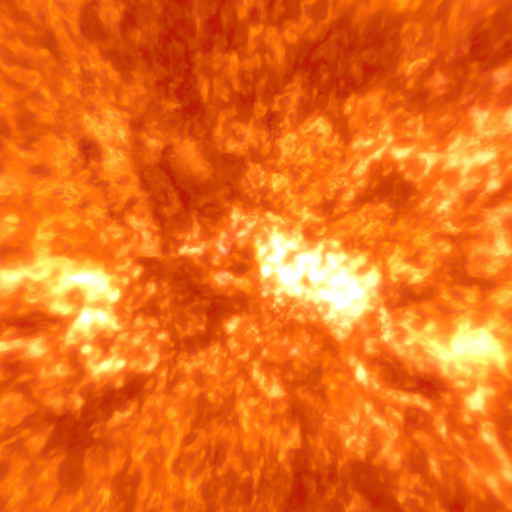
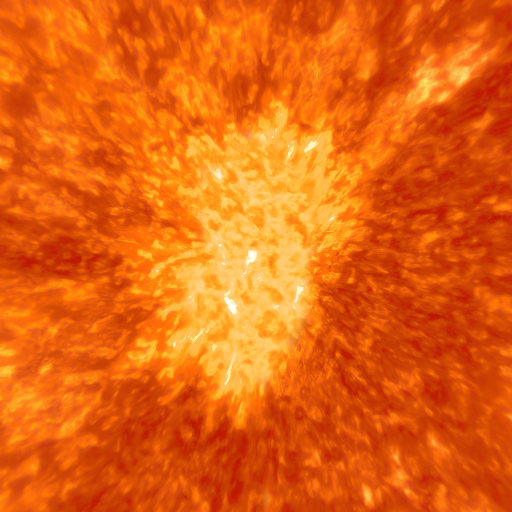
made a sphere version

diff --git a/js/Math.js b/js/Math.js
@@ -61,8 +61,8 @@ function Isometry() {
         let len = Math.sqrt(v.x * v.x + v.y * v.y + v.z * v.z);
 
         if (len != 0) {
-            var c1 = Math.sinh(len);
-            var c2 = Math.cosh(len) - 1;
+            var c1 = Math.sin(len);
+            var c2 = 1 - Math.cos(len);
             let dx = v.x / len;
             let dy = v.y / len;
             let dz = v.z / len;
@@ -70,7 +70,7 @@ function Isometry() {
                 0, 0, 0, dx,
                 0, 0, 0, dy,
                 0, 0, 0, dz,
-                dx, dy, dz, 0.0);
+                -dx, -dy, -dz, 0.0);
             var m2 = m.clone().multiply(m);
             m.multiplyScalar(c1);
             m2.multiplyScalar(c2);
@@ -332,7 +332,7 @@ const cubeHalfWidth = 0.6584789485;
 //	Teleporting back to central cell
 //-----------------------------------------------------------------------------------------------------------------------------
 function geomDist(v) {
-    return Math.acosh(v.w);
+    return Math.acos(v.w);
 }
 
 
